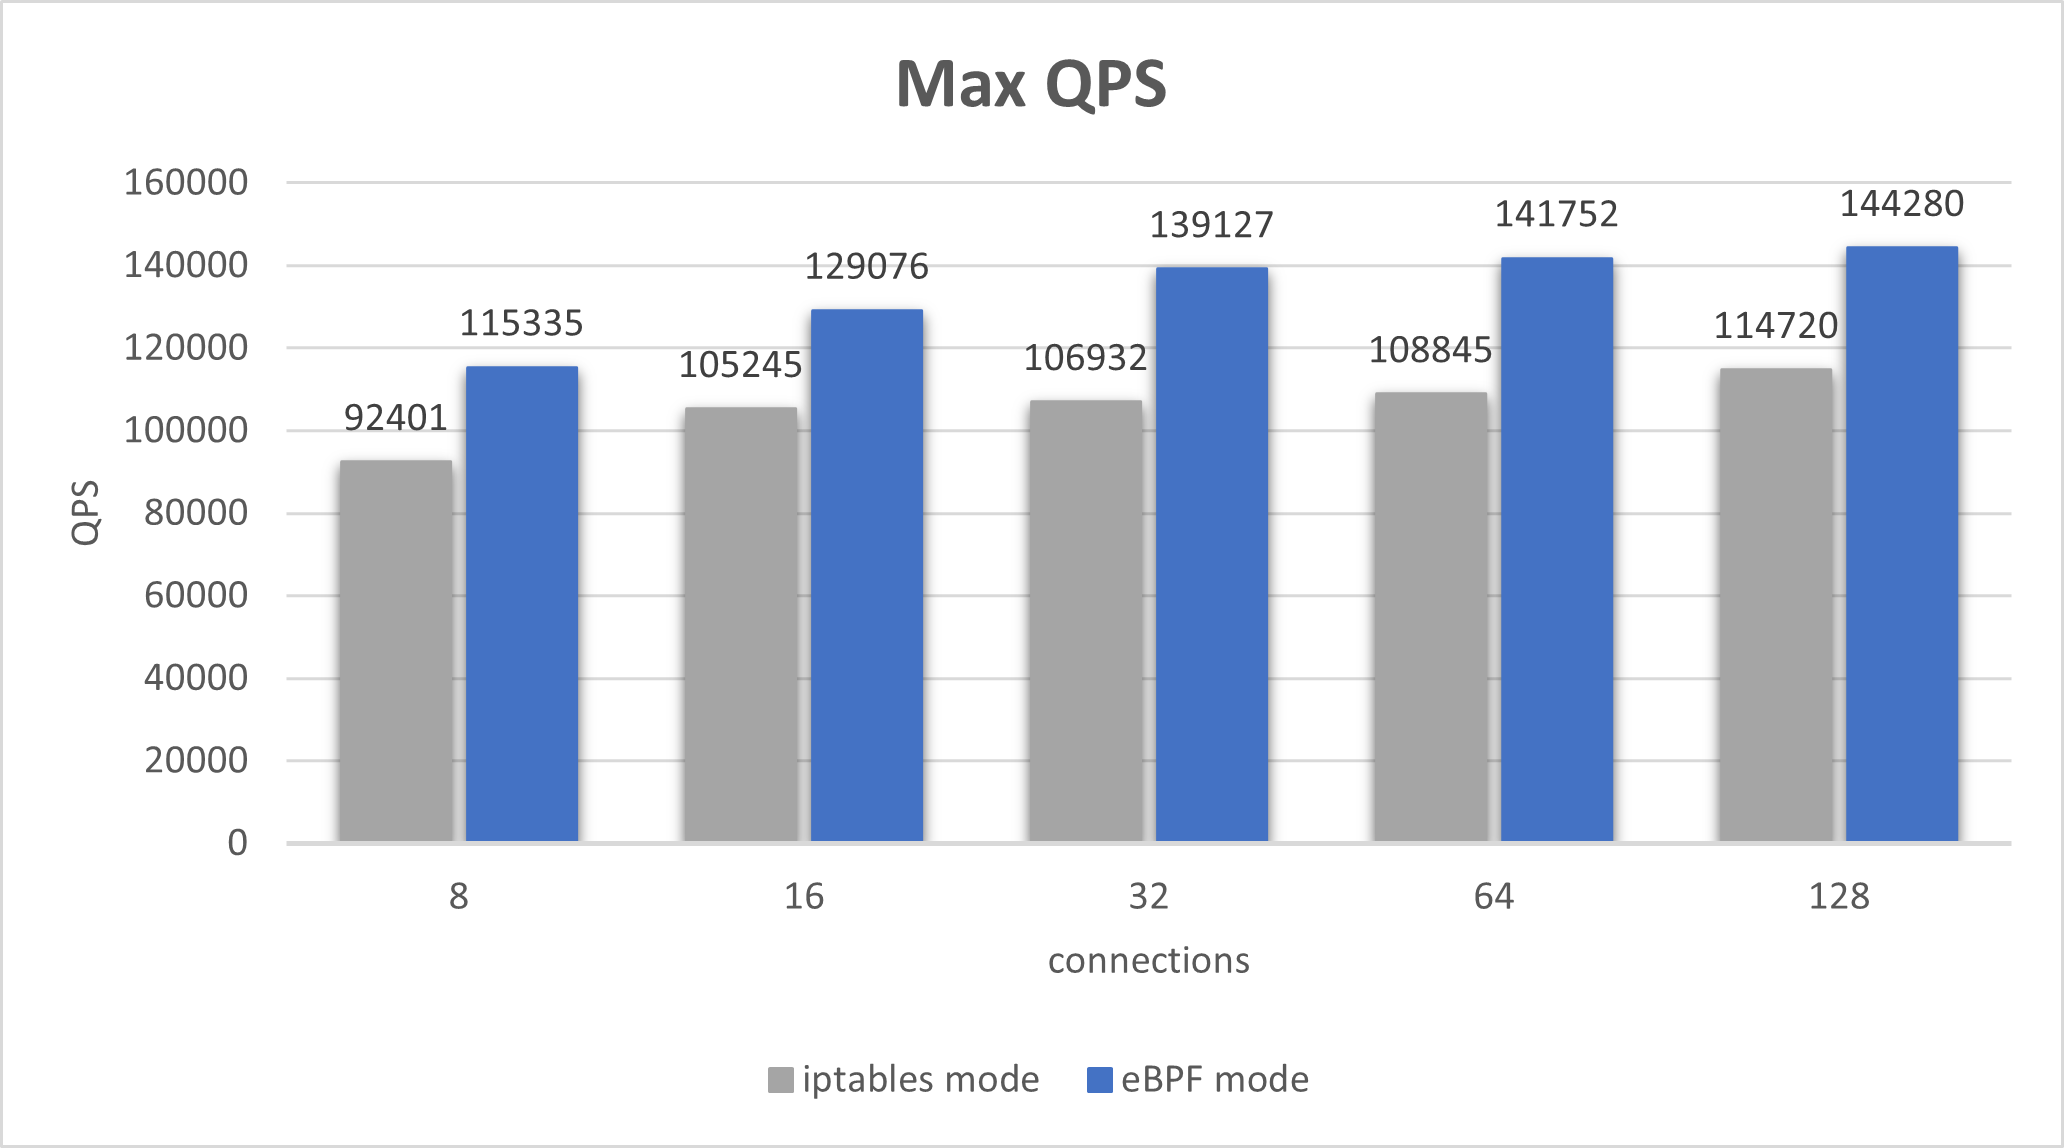
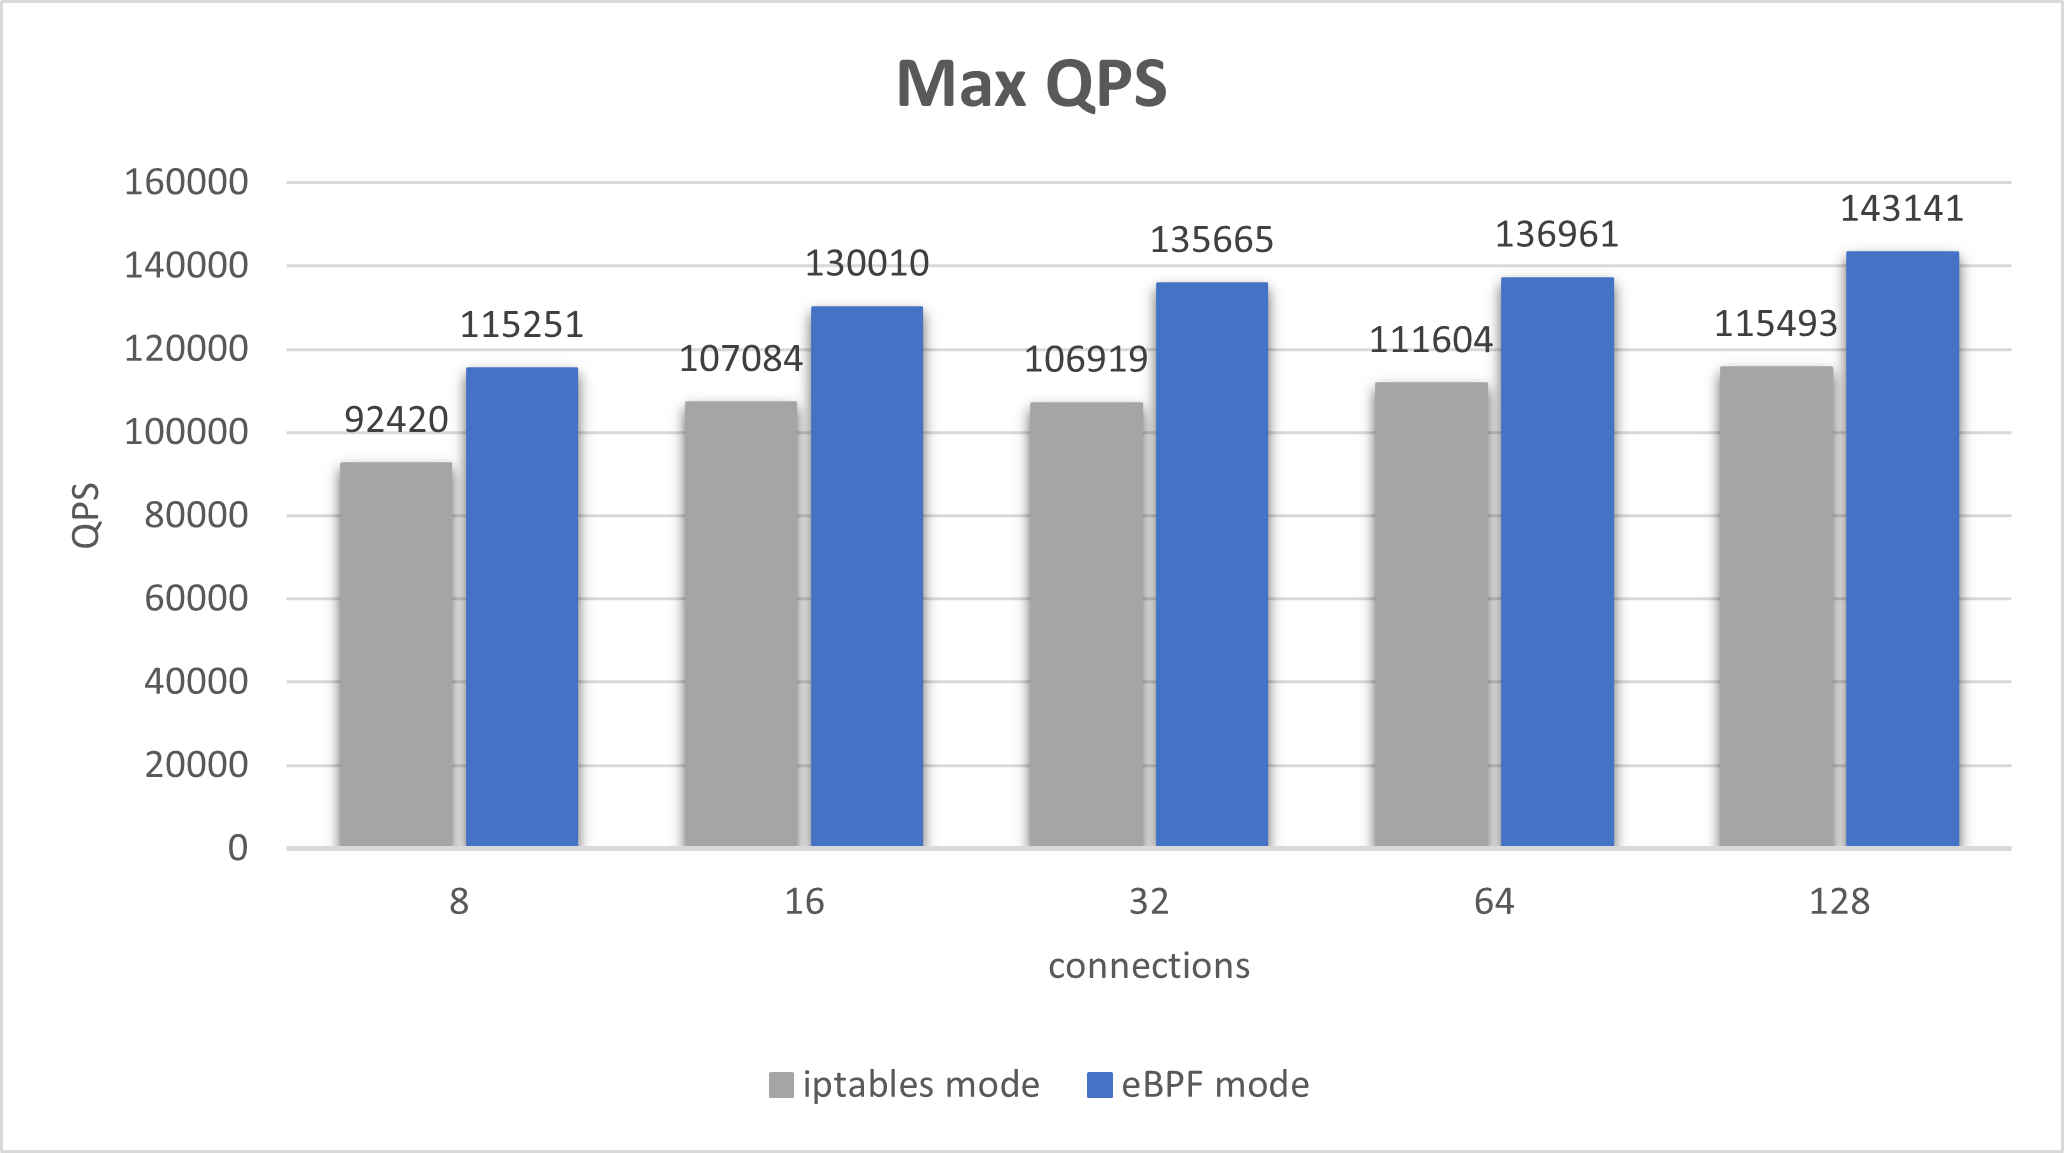
Update metrics with latest code base

diff --git a/content/en/blog/2023/ambient-ebpf-redirection/index.md b/content/en/blog/2023/ambient-ebpf-redirection/index.md
@@ -52,15 +52,15 @@ a Fortio client sending requests to a Fortio server, both running in ambient mod
 The above metrics were produced with the following command:
 
 {{< text bash >}}
-$ fortio load -t 60s -qps 0 -c <num_connections> http://<fortio-svc-name>:8080
+$ fortio load -uniform -t 60s -qps 0 -c <num_connections> http://<fortio-svc-name>:8080
 {{< /text >}}
 
-{{< image width="90%" link="./Latency-with-8000-qps.png" alt="Latency (ms) for QPS 8000 with varying number of connections" title="Latency(ms) for QPS 8000 with varying number of connections" caption="Latency (ms) for QPS 8000 with varying number of connections" >}}
+{{< image width="90%" link="./P75-Latency-with-8000-qps.png" alt="Latency (ms) for QPS 8000 with varying number of connections" title="P75 Latency(ms) for QPS 8000 with varying number of connections" caption="P75 Latency (ms) for QPS 8000 with varying number of connections" >}}
 
 The above metrics were produced with the following command:
 
 {{< text bash >}}
-$ fortio load -t 60s -qps 8000 -c <num_connections> http://<fortio-svc-name>:8080
+$ fortio load -uniform -t 60s -qps 8000 -c <num_connections> http://<fortio-svc-name>:8080
 {{< /text >}}
 
 ## Wrapping up
